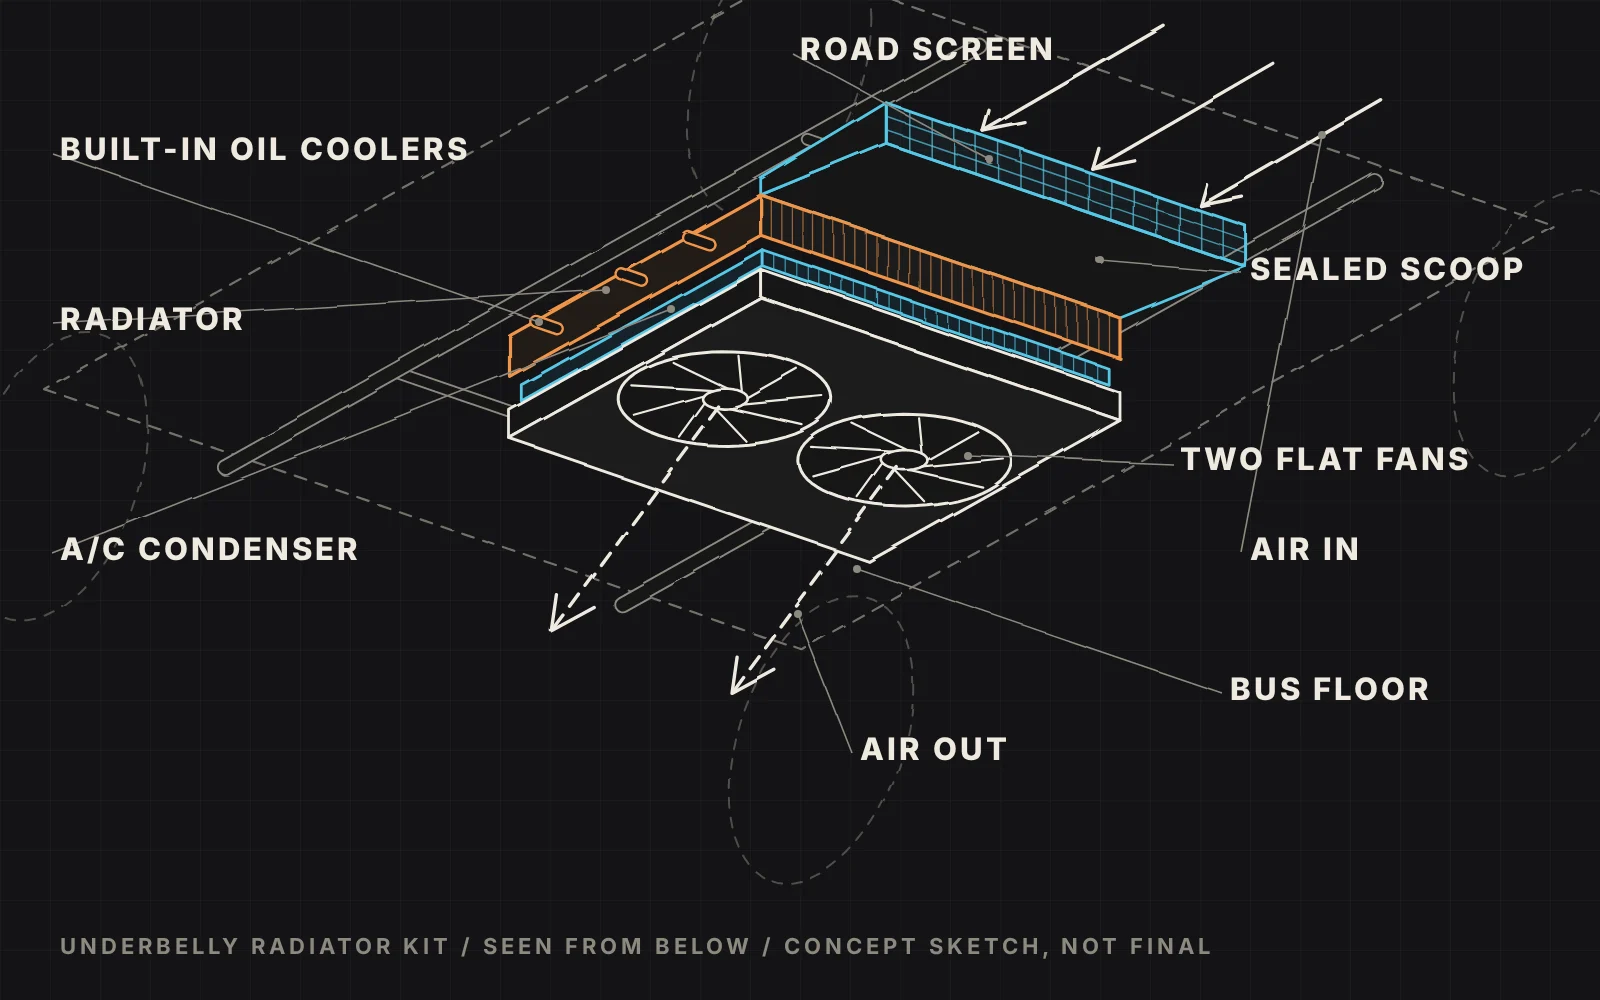
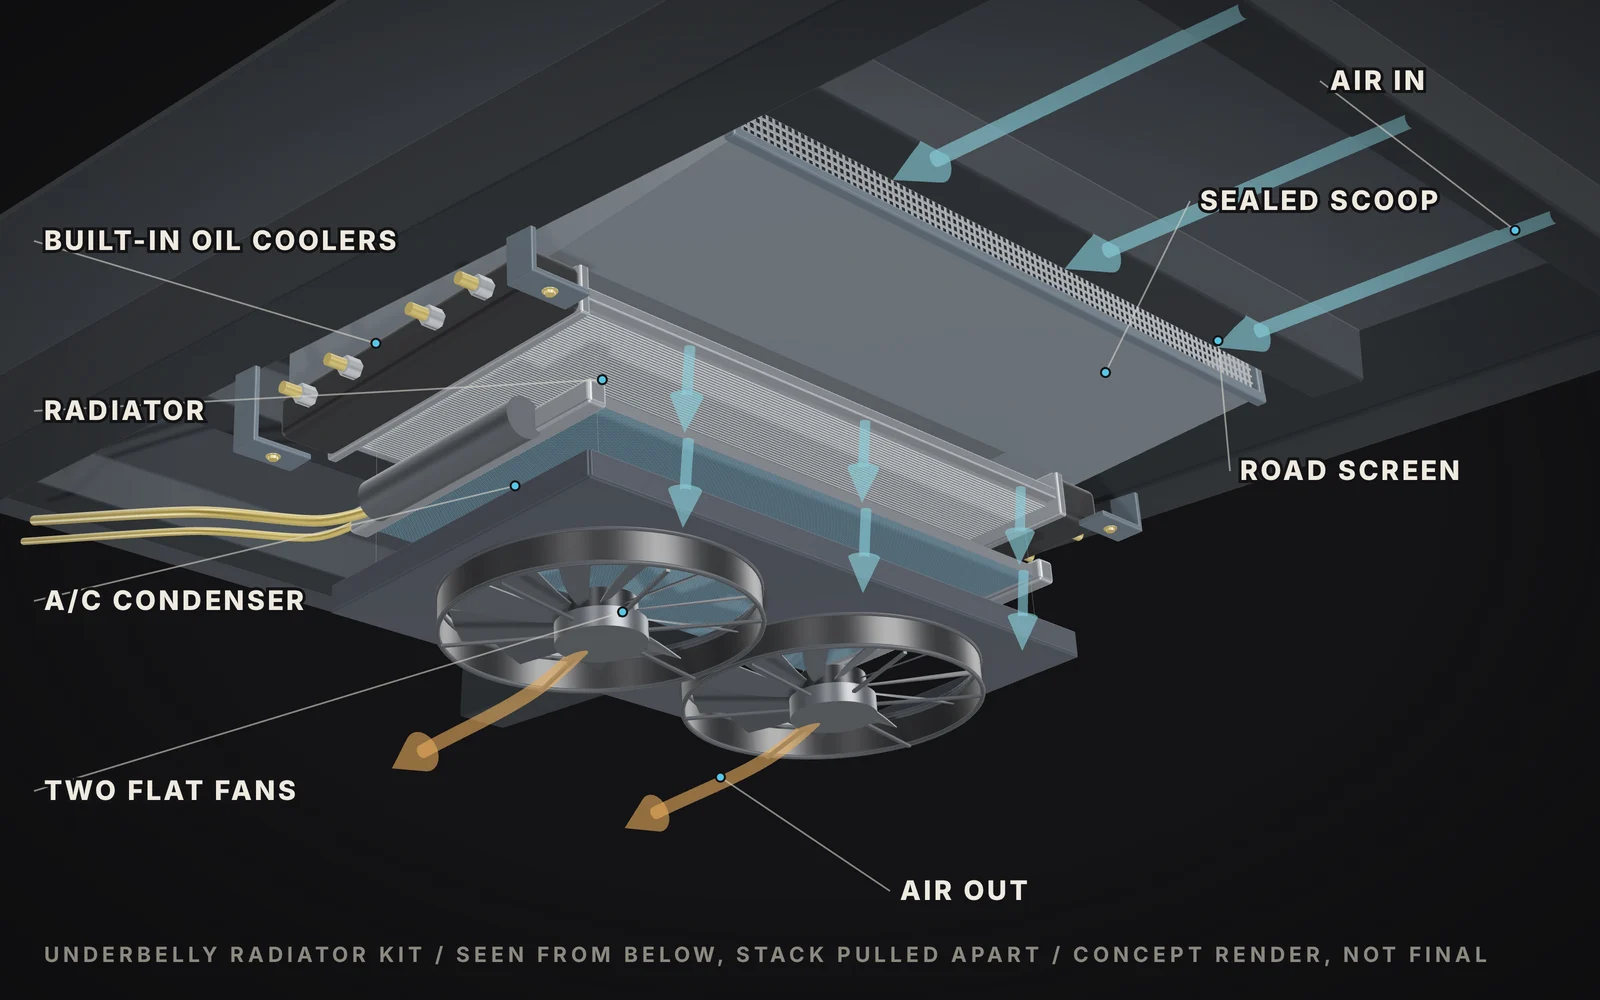
Kits: 3D concept renders replace the line sketches

diff --git a/index.html b/index.html
@@ -207,7 +207,7 @@ footer .ig{color:var(--cyan);font-weight:800;text-decoration:none;letter-spacing
     </div>
     <div class="kits">
       <article class="kit rise">
-        <img class="kimg" src="img/kit-underbelly.webp" alt="Concept sketch of the underbelly radiator kit: seen from below, a radiator with built-in oil coolers, an A/C condenser stacked under it and two flat fans on the bottom, with a sealed scoop and road screen" loading="lazy">
+        <img class="kimg" src="img/kit-underbelly.webp" alt="Concept render of the underbelly radiator kit seen from below, with the stack pulled apart: a radiator with built-in oil coolers, an A/C condenser stacked under it and two flat fans on the bottom, with a sealed scoop and road screen" loading="lazy">
         <span class="kicker">Cooling</span>
         <h3 class="d">Underbelly radiator kit</h3>
         <p>Cooling for a real water-cooled engine, tucked under the bus.</p>
@@ -218,7 +218,7 @@ footer .ig{color:var(--cyan);font-weight:800;text-decoration:none;letter-spacing
         </ul>
       </article>
       <article class="kit rise">
-        <img class="kimg" src="img/kit-a-arm-t3.webp" alt="Concept sketch of the Bus A-Arm T3 front suspension: a bolt-in cradle with upper arms, boxed lower arms, radius rods on their own subframe section, a sway bar, an upright radiator, a rack and a bevel box" loading="lazy">
+        <img class="kimg" src="img/kit-a-arm-t3.webp" alt="Concept render of the Bus A-Arm T3 front suspension: a bolt-in cradle with upper arms, boxed lower arms, radius rods on their own subframe section, a sway bar, an upright radiator, a rack and a bevel box" loading="lazy">
         <span class="kicker">Suspension</span>
         <h3 class="d">Bus A-Arm T3</h3>
         <p>Bolt-on Vanagon front suspension for the Bay, with an upgraded cooling pack.</p>
